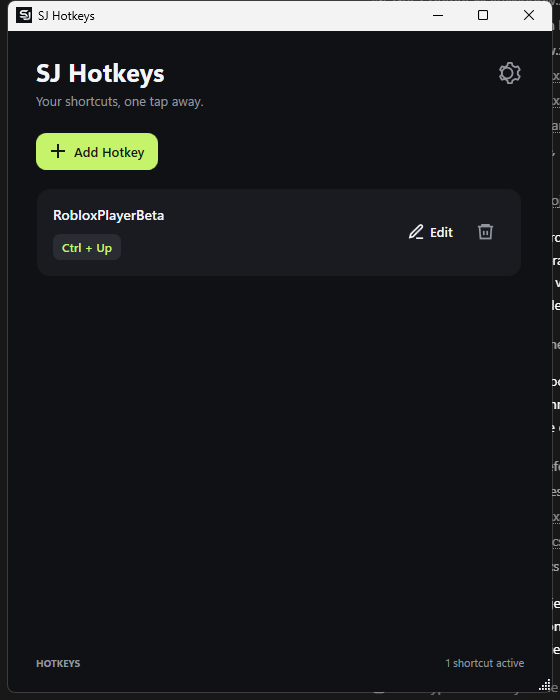
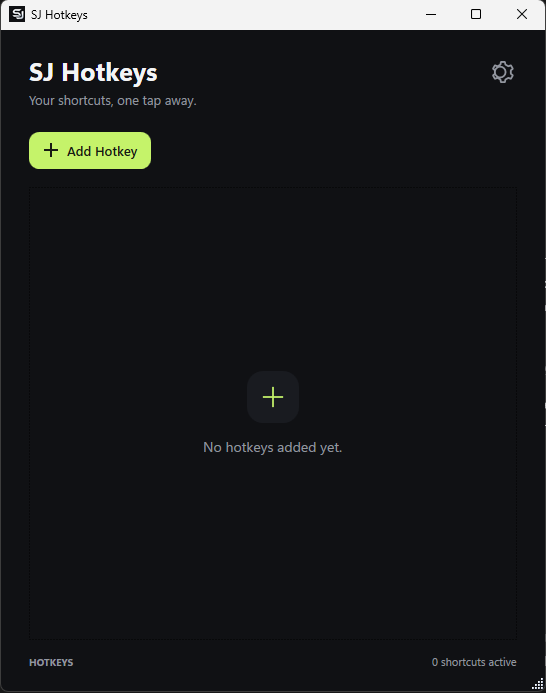
Replace README previews with clean Windows screenshots

diff --git a/README.md b/README.md
@@ -23,9 +23,9 @@
 
 SJ Hotkeys makes it easy to open the programs you use most. Choose an executable, record a key combination, and launch that program from anywhere in Windows—even while another app is in front.
 
-![Real screenshot of SJ Hotkeys running on Windows, showing the compact shortcut list, settings button and inline edit/delete actions](docs/images/main-window.png)
+![Real Windows screenshot of SJ Hotkeys showing its clean empty hotkey list](docs/images/main-window.png)
 
-*Screenshot captured from the running Windows application. Full paths stay saved locally and are available as a tooltip on each shortcut card.*
+*A genuine capture of the SJ Hotkeys window, cropped to the app itself. No desktop or other apps are shown.*
 
 ### Why SJ Hotkeys?
 
@@ -37,7 +37,11 @@ SJ Hotkeys makes it easy to open the programs you use most. Choose an executable
 
 ## Windows screenshots
 
-The main-window image above is a direct capture of the running Windows build. The About and Settings panel uses the official SJ Studios logo and native Windows controls.
+Both images below are genuine captures of SJ Hotkeys on Windows, cropped to the application windows so no desktop or other apps appear. The settings view includes the official SJ Studios logo.
+
+| Hotkey window | About & Settings |
+| --- | --- |
+| ![SJ Hotkeys main window in Windows, showing the empty hotkey state](docs/images/main-window.png) | ![SJ Hotkeys About and Settings window on Windows with the SJ Studios logo](docs/images/settings.png) |
 
 ## Download and install
 
